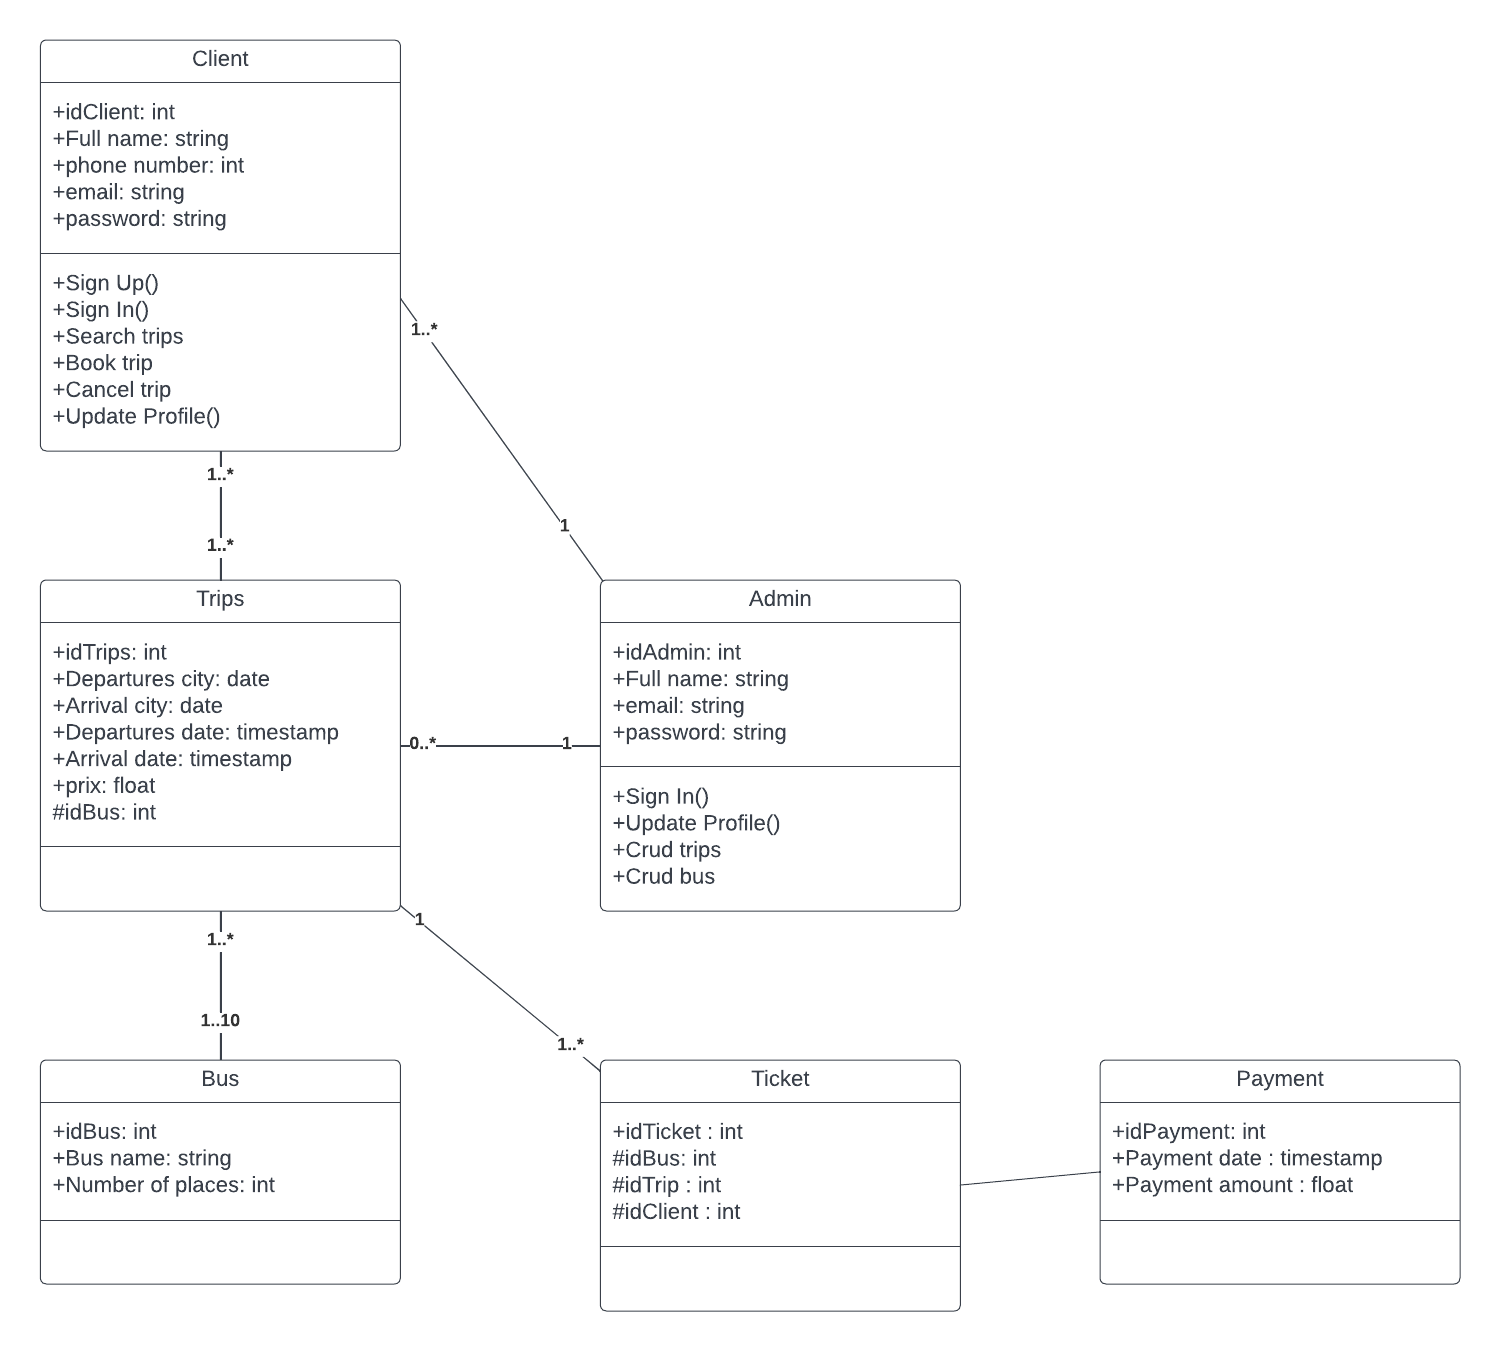
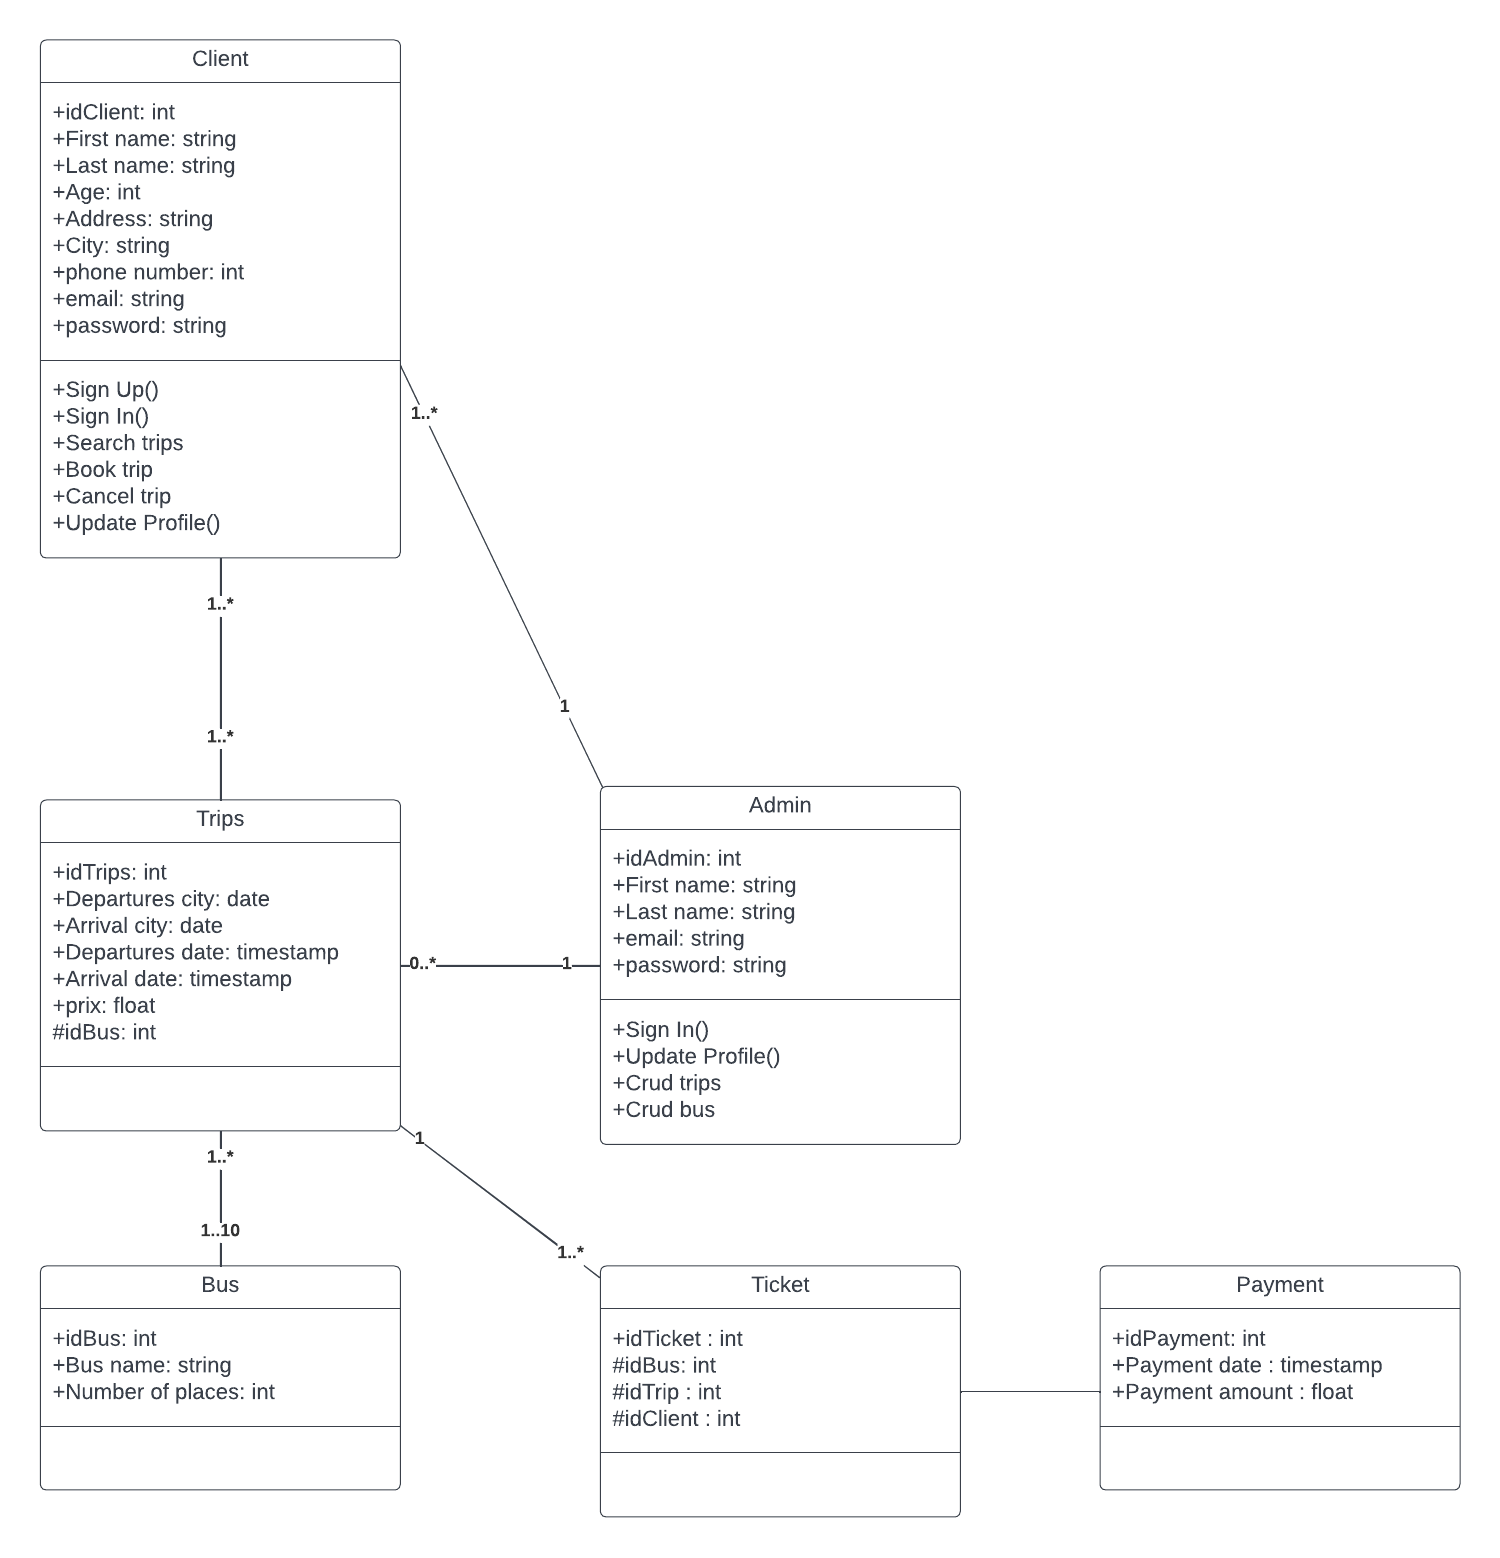
i need to slove an error

diff --git a/code/server/backend/models/userModel.js b/code/server/backend/models/userModel.js
@@ -1,5 +1,6 @@
 const mongoose = require("mongoose");
 
+// i have an error message show when i try to register new user 
 const userSchema = mongoose.Schema(
   {
     firstName: {
@@ -18,6 +19,21 @@ const userSchema = mongoose.Schema(
     password: {
       type: String,
       required: [true, "Please add your password"],
+    },
+    age: {
+      type: String,
+      required: [true, "Please select your age"],
+    },
+    address: {
+      type: String,
+    },
+    city: {
+      type: String,
+      required: [true, "Please select your city"],
+    },
+    phone: {
+      type: String,
+      required: [true, "Please enter your phone number"],
     },
   },
   {

diff --git a/code/server/backend/routes/userRoutes.js b/code/server/backend/routes/userRoutes.js
@@ -8,7 +8,7 @@ const {
   logoutUser,
 } = require("../controllers/userController"); // <--- Import the userController
 
-router.route("/").post(registerUser); // <--- Create a route for the registerUser function
+router.route("/register").post(registerUser); // <--- Create a route for the registerUser function
 router.route("/login").post(loginUser); // <--- Create a route for the loginUser function
 router.route("/me").get(protect,getMe); // <--- Create a route for the getMe function
 router.route("/logout").post(logoutUser); // <--- Create a route for the logoutUser function

diff --git a/code/server/backend/controllers/userController.js b/code/server/backend/controllers/userController.js
@@ -8,11 +8,11 @@ const bcrypt = require("bcryptjs");
 // @access  Public
 
 const registerUser = asyncHandler(async (req, res) => {
-  const { firstName, lastName, email, password } = req.body;
+  const { firstName, lastName, age, address, city, phone, email, password } = req.body;
 
   //   check if any of the fields are empty
 
-  if (!firstName || !lastName || !email || !password) {
+  if (!firstName || !lastName || !age || !city || !phone || !email || !password) {
     res.status(400);
     throw new Error("Please fill in all fields");
   }
